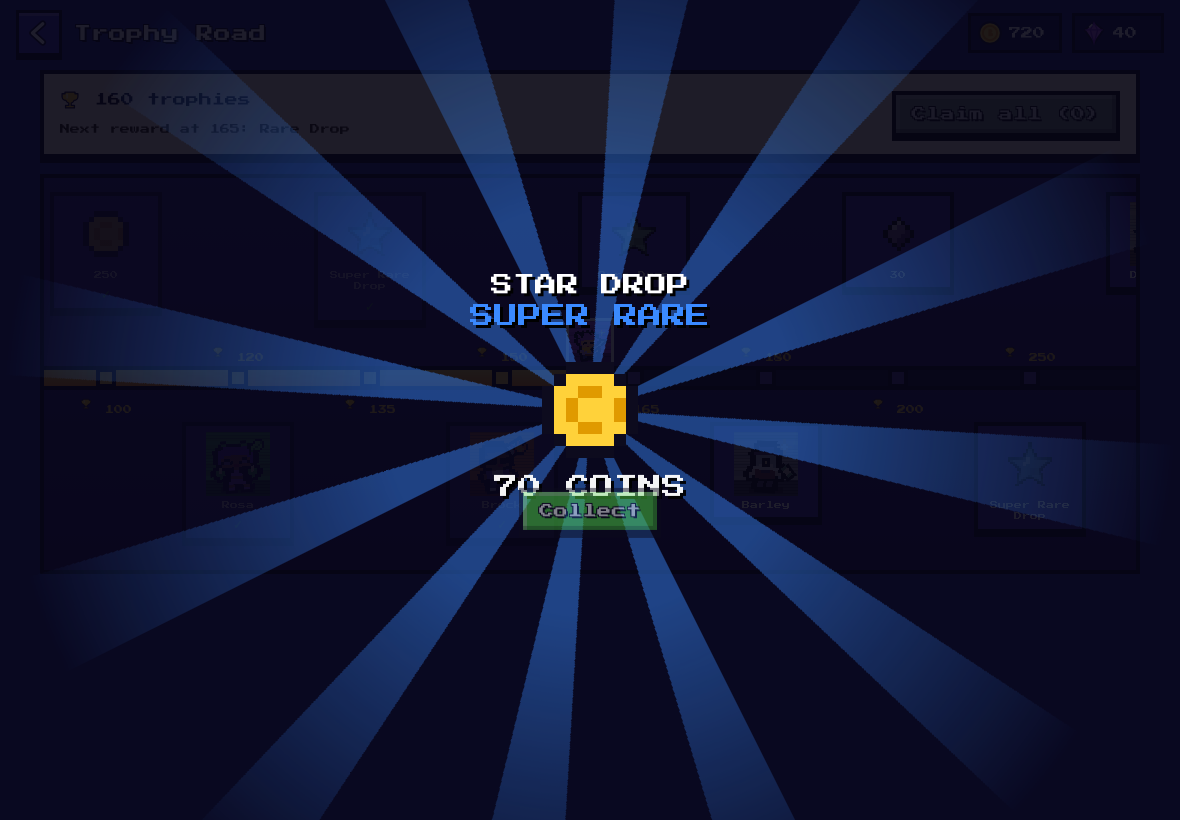
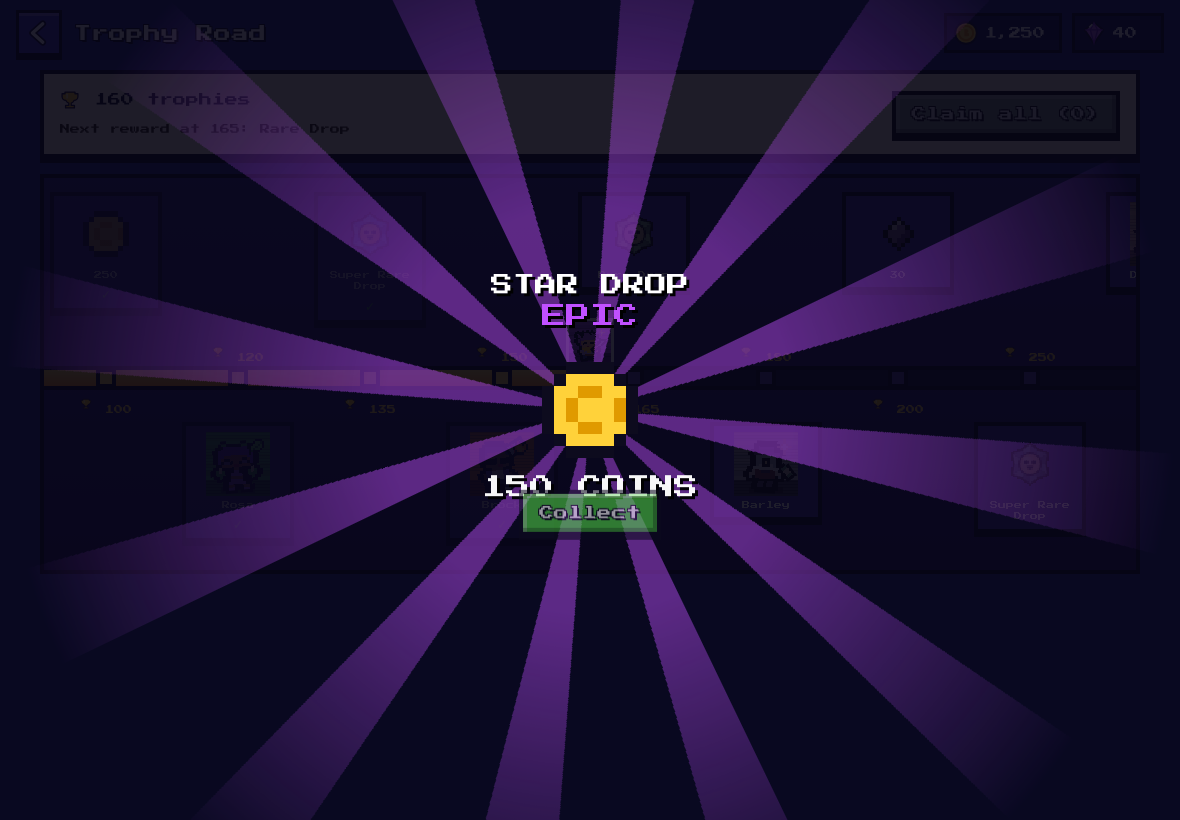
Star Drop redrawn as the 6-point smiley star
Claude-Session: https://claude.ai/code/session_01FdRq2KxaynozDRfyymzMuF

diff --git a/Brawl8Bit.html b/Brawl8Bit.html
@@ -1378,7 +1378,7 @@ const STAR_DROPS = [
   { name: 'Super Rare', col: '#3a8aff', w: 28, rewards: [{ coins: 70 }, { gems: 5 }, { coins: 90 }] },
   { name: 'Epic', col: '#c050ff', w: 15, rewards: [{ coins: 150 }, { gems: 12 }] },
   { name: 'Mythic', col: '#ff4a6a', w: 5, rewards: [{ coins: 300 }, { gems: 25 }, { brawlerRandom: true }] },
-  { name: 'Legendary', col: '#ffe040', w: 2, rewards: [{ brawlerRandom: true }, { coins: 600 }] },
+  { name: 'Legendary', col: '#ffb81a', w: 2, rewards: [{ brawlerRandom: true }, { coins: 600 }] },
 ];
 
 function makeQuest() {
@@ -4199,7 +4199,7 @@ function renderQuests() {
 }
 
 // ---------------- pass / road ----------------
-function rewardCanvas(c, r) { const x = 22, y = 22; if (r.drop !== undefined) { c.setTransform(1, 0, 0, 1, 0, 0); drawDropStar(c.canvas, STAR_DROPS[r.drop].col, 0); } else if (r.brawler) { c.setTransform(1, 0, 0, 1, 0, 0); drawPortrait(c.canvas, r.brawler, { scale: 2.4 }); } else if (r.coins) drawCoinIcon(c, x, y, 16); else drawGem(c, x, y, 1.6, 0); }
+function rewardCanvas(c, r) { const x = 22, y = 22; if (r.drop !== undefined) { c.setTransform(1, 0, 0, 1, 0, 0); drawDropStar(c.canvas, STAR_DROPS[r.drop].col); } else if (r.brawler) { c.setTransform(1, 0, 0, 1, 0, 0); drawPortrait(c.canvas, r.brawler, { scale: 2.4 }); } else if (r.coins) drawCoinIcon(c, x, y, 16); else drawGem(c, x, y, 1.6, 0); }
 function renderPass() {
   const B = $('#passBody'), tab = App.passTab;
   $('#passTitle').textContent = tab === 'pass' ? 'Brawl Pass' : 'Trophy Road';
@@ -4425,24 +4425,36 @@ function rollDrop(min) {
   for (let i = 0; i < ds.length; i++) { r -= ds[i].w; if (r <= 0) return min + i; }
   return min;
 }
-// a chunky pixel star drawn on a tiny canvas and scaled up
-function drawDropStar(cv, col, glow) {
-  const c = cv.getContext('2d'), w = cv.width, h = cv.height, n = 24, sc = Math.floor(Math.min(w, h) / n);
+// Star Drop: a 6-point star with shiny facets and a smiley face, drawn small and scaled up for a pixel look
+function drawDropStar(cv, col) {
+  const c = cv.getContext('2d'), w = cv.width, h = cv.height, n = 32, sc = Math.max(1, Math.floor(Math.min(w, h) / n));
   c.setTransform(1, 0, 0, 1, 0, 0); c.imageSmoothingEnabled = false; c.clearRect(0, 0, w, h);
-  const o = document.createElement('canvas'); o.width = o.height = n; const x = o.getContext('2d');
-  const star = (R_, r_) => { x.beginPath(); for (let i = 0; i < 10; i++) { const a = -Math.PI / 2 + i * Math.PI / 5, rr = i % 2 ? r_ : R_; x.lineTo(n / 2 + Math.cos(a) * rr, n / 2 + 1 + Math.sin(a) * rr); } x.closePath(); x.fill(); };
-  x.fillStyle = '#0d0b1e'; star(11.5, 5.4); x.fillStyle = col; star(9.6, 4.2); x.fillStyle = 'rgba(255,255,255,.6)'; x.fillRect(10, 9, 2, 3); x.fillRect(9, 11, 1, 2);
-  x.fillStyle = 'rgba(0,0,0,.2)'; x.fillRect(12, 14, 5, 3);
-  const d = x.getImageData(0, 0, n, n); for (let i = 3; i < d.data.length; i += 4) d.data[i] = d.data[i] > 100 ? 255 : 0; x.putImageData(d, 0, 0);
-  const ox = Math.round((w - n * sc) / 2), oy = Math.round((h - n * sc) / 2);
-  c.drawImage(o, ox, oy, n * sc, n * sc);
+  const o = document.createElement('canvas'); o.width = o.height = n; const x = o.getContext('2d'), cx = n / 2, cy = n / 2;
+  const P = (a, r) => [cx + Math.cos(a) * r, cy + Math.sin(a) * r], rad = d => d * Math.PI / 180;
+  const poly = (pts, fill) => { x.fillStyle = fill; x.beginPath(); pts.forEach(([px, py], k) => k ? x.lineTo(px, py) : x.moveTo(px, py)); x.closePath(); x.fill(); };
+  const star = (R_, r_) => Array.from({ length: 12 }, (_, k) => P(rad(-90 + k * 30), k % 2 ? r_ : R_));
+  poly(star(15.6, 12), '#0d0b1e');
+  for (let k = 0; k < 6; k++) {
+    const a = -90 + k * 60, tip = P(rad(a), 13.8), l = P(rad(a - 30), 10.4), r = P(rad(a + 30), 10.4);
+    const lit = k === 0 || k === 4 || k === 5;
+    poly([[cx, cy], l, tip], shade(col, lit ? 1.35 : 1.05)); poly([[cx, cy], tip, r], shade(col, lit ? 1.0 : 0.72));
+  }
+  // smiley face
+  x.fillStyle = '#0d0b1e'; x.beginPath(); x.arc(cx, cy, 8, 0, 7); x.fill();
+  x.fillStyle = '#ffd23a'; x.beginPath(); x.arc(cx, cy, 6.9, 0, 7); x.fill();
+  x.fillStyle = '#ffe98a'; x.beginPath(); x.arc(cx - 1.5, cy - 2, 3.2, 0, 7); x.fill();
+  x.fillStyle = '#0d0b1e';
+  x.beginPath(); x.arc(cx - 2.6, cy - 1.2, 1.5, 0, 7); x.fill(); x.beginPath(); x.arc(cx + 2.6, cy - 1.2, 1.5, 0, 7); x.fill();
+  x.beginPath(); x.arc(cx, cy + 1.6, 2.4, 0, Math.PI); x.fill();
+  const d = x.getImageData(0, 0, n, n); for (let k = 3; k < d.data.length; k += 4) d.data[k] = d.data[k] > 110 ? 255 : 0; x.putImageData(d, 0, 0);
+  c.drawImage(o, Math.round((w - n * sc) / 2), Math.round((h - n * sc) / 2), n * sc, n * sc);
 }
 function fxDrop(min) {
   const ov = $('#ov-fx'); let lvl = rollDrop(min), taps = 0; const need = 4;
   ov.innerHTML = `<div class="fxrays"></div><div class="fxbox"><div class="fxtag">STAR DROP</div><button class="fxstar" id="fxStar" aria-label="Tap the Star Drop"><canvas width="216" height="216"></canvas></button>
     <div class="fxname" id="fxRar"></div><p class="fxinfo" id="fxHint">Tap the star ${need} times!</p><div id="fxOut"></div></div>`;
   const cvs = ov.querySelector('.fxstar canvas'), btn = $('#fxStar');
-  const paint = () => { const D = STAR_DROPS[lvl]; ov.style.setProperty('--fx', D.col); drawDropStar(cvs, D.col, taps); $('#fxRar').textContent = D.name.toUpperCase(); $('#fxRar').style.color = D.col; };
+  const paint = () => { const D = STAR_DROPS[lvl]; ov.style.setProperty('--fx', D.col); drawDropStar(cvs, D.col); $('#fxRar').textContent = D.name.toUpperCase(); $('#fxRar').style.color = D.col; };
   paint(); Sound.play('superReady');
   btn.onclick = () => {
     if (taps >= need) return;
